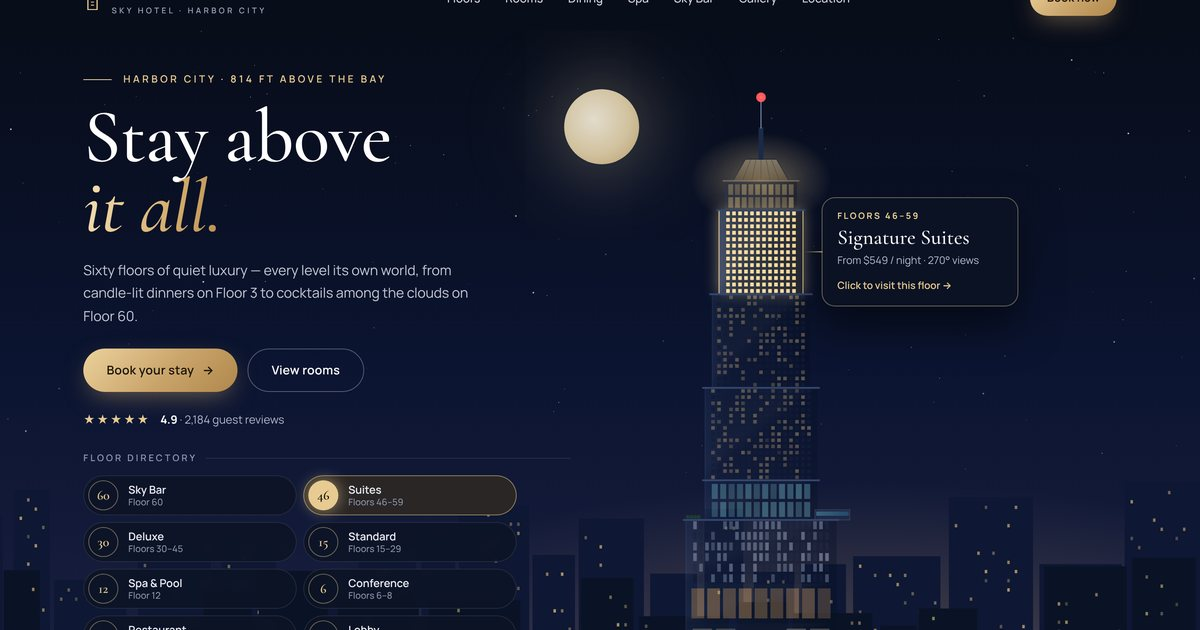
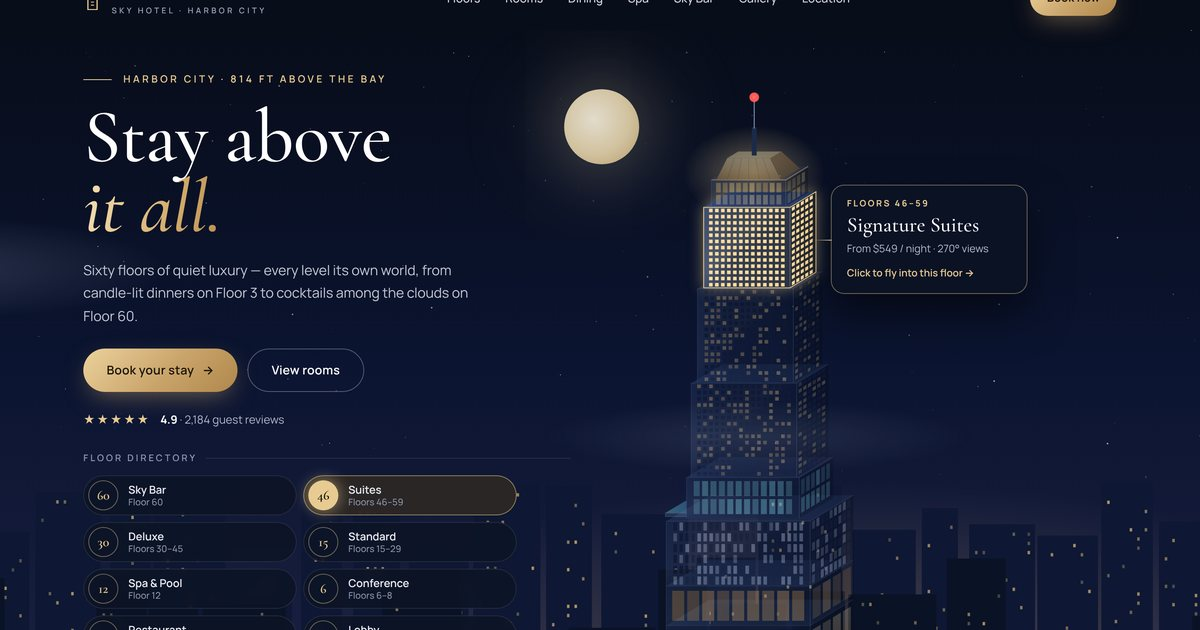
3D tower and fly-in animation to each floor
Claude-Session: https://claude.ai/code/session_01BrWmda2QawVL7UzhnecBsi

diff --git a/index.html b/index.html
@@ -113,6 +113,7 @@ ul{list-style:none}
 .tower-col{grid-area:tower;display:flex;align-items:flex-end;justify-content:flex-start;padding-left:6%;position:relative}
 .tower-wrap{position:relative;height:min(80vh,820px);aspect-ratio:420/1000;flex:none}
 .tower-wrap svg{width:100%;height:100%;overflow:visible;display:block}
+.pool{transition:filter .35s}.zone.active .pool{filter:brightness(1.35)}
 .tower-hint{position:absolute;top:13%;left:calc(100% - 20px);white-space:nowrap;display:flex;align-items:center;gap:10px;font-size:12px;color:#cbd1dc;background:rgba(255,255,255,.06);border:1px solid var(--line);padding:7px 14px 7px 10px;border-radius:999px;backdrop-filter:blur(6px);transition:opacity .4s}
 .tower-hint .dot{width:8px;height:8px;border-radius:50%;background:var(--gold2);box-shadow:0 0 0 0 rgba(231,203,146,.6);animation:pulse 2s infinite}
 @keyframes pulse{70%{box-shadow:0 0 0 10px rgba(231,203,146,0)}100%{box-shadow:0 0 0 0 rgba(231,203,146,0)}}
@@ -402,6 +403,24 @@ h2 em{font-style:italic;color:var(--goldd)}
 .mbar span{font-size:12px;color:#aab2c3;line-height:1.2}
 .mbar span b{display:block;color:#fff;font-size:16px;font-family:var(--serif)}
 
+/* clouds + fly-in portal */
+.cloud{position:absolute;pointer-events:none;border-radius:50%;background:radial-gradient(closest-side,rgba(190,203,232,.2),rgba(190,203,232,0));animation:drift linear infinite}
+.c1{width:680px;height:130px;top:28%;left:0;animation-duration:95s}
+.c2{width:520px;height:90px;top:56%;left:0;animation-duration:70s;animation-delay:-35s;z-index:2;opacity:.6}
+@keyframes drift{from{transform:translateX(-40vw)}to{transform:translateX(110vw)}}
+.portal{position:fixed;inset:0;z-index:85;visibility:hidden;overflow:hidden;cursor:pointer}
+.portal.on{visibility:visible}
+.p-bg{position:absolute;inset:0;opacity:0;background:radial-gradient(ellipse 70% 45% at 72% 100%,rgba(201,164,106,.3),transparent 70%),linear-gradient(180deg,#080d1a 0%,#0b1430 50%,#1a2042 100%)}
+.p-tower{position:absolute;inset:0}
+.portal .zone.active{filter:none}
+.p-photo{position:absolute;inset:-2%;background:center/cover no-repeat;opacity:0}
+.p-photo::after{content:'';position:absolute;inset:0;background:radial-gradient(ellipse at center,rgba(8,13,26,.38),rgba(8,13,26,.82))}
+.p-label{position:absolute;left:0;right:0;top:50%;margin-top:-110px;text-align:center;color:#fff;opacity:0}
+.p-label small{display:block;font-size:12px;letter-spacing:.45em;color:var(--gold2);font-weight:700}
+.pl-n{display:block;font-family:var(--serif);font-weight:500;font-size:clamp(120px,15vw,190px);line-height:.95;font-variant-numeric:tabular-nums;text-shadow:0 10px 40px rgba(0,0,0,.45)}
+.pl-name{font-family:var(--serif);font-style:italic;font-size:clamp(28px,3.4vw,44px);color:var(--gold2)}
+.p-skip{position:absolute;bottom:26px;left:0;right:0;text-align:center;font-size:12px;letter-spacing:.12em;color:rgba(255,255,255,.45)}
+
 /* responsive */
 @media (max-width:1100px){
   .links{display:none}.burger{display:block}
@@ -513,6 +532,7 @@ h2 em{font-style:italic;color:var(--goldd)}
 <section class="hero" id="top" data-nofloor>
   <div class="stars"></div>
   <div class="moon"></div>
+  <div class="cloud c1"></div>
   <svg class="city-bg" id="cityBg" preserveAspectRatio="xMidYMax slice" viewBox="0 0 1600 300" aria-hidden="true"></svg>
   <div class="hero-grid container">
     <div class="hero-text">
@@ -532,11 +552,12 @@ h2 em{font-style:italic;color:var(--goldd)}
     <div class="tower-col">
       <div class="tower-wrap">
         <svg id="tower" class="tower boot" viewBox="0 0 420 1000" role="group" aria-label="Interactive hotel tower. Choose a floor."></svg>
-        <div class="tower-hint"><span class="dot"></span><span class="h-desk">Hover a floor · click to visit</span><span class="h-touch">Tap a floor · tap again to visit</span></div>
+        <div class="tower-hint"><span class="dot"></span><span class="h-desk">Hover a floor · click to fly in</span><span class="h-touch">Tap a floor · tap again to fly in</span></div>
         <div class="tip" aria-hidden="true"><div class="t-floor"></div><div class="t-name"></div><div class="t-meta"></div><div class="t-cta"></div></div>
       </div>
     </div>
   </div>
+  <div class="cloud c2"></div>
 </section>
 
 <div class="stats" data-nofloor>
@@ -896,6 +917,7 @@ h2 em{font-style:italic;color:var(--goldd)}
 </footer>
 
 <button class="elev" aria-label="Back to the tower" title="Back to the tower"><span class="arrow">▲</span><span class="n">L</span><small>FLOOR</small><span class="lbl"></span></button>
+<div class="portal" aria-hidden="true"><div class="p-bg"></div><div class="p-tower"></div><div class="p-photo"></div><div class="p-label"><small>FLOOR</small><b class="pl-n">01</b><span class="pl-name"></span></div><div class="p-skip">Click to skip</div></div>
 <div class="mbar"><span>From<b>$189 / night</b></span><a href="#booking" class="btn btn-gold btn-sm">Book now</a></div>
 
 <div class="lightbox" role="dialog" aria-modal="true" aria-label="Photo viewer">
@@ -979,97 +1001,126 @@ FLOORS.forEach(f => {
   fgrid.appendChild(b);
 });
 
-/* tower */
+/* tower (3D) */
 const tower = $('#tower');
+const UX = .6, UY = -.36, CX = 172, DMAX = 120;
 const ZONES = [
-  {id: 'skybar', kind: 'crown'},
-  {id: 'suite', y0: 200, y1: 340, x0: 140, x1: 280, rows: 13},
-  {id: 'deluxe', y0: 340, y1: 496, x0: 128, x1: 292, rows: 15},
-  {id: 'standard', y0: 496, y1: 650, x0: 116, x1: 304, rows: 15},
-  {id: 'spa', kind: 'spa', y0: 650, y1: 716, x0: 116, x1: 304},
-  {id: 'conference', kind: 'office', y0: 716, y1: 822, x0: 84, x1: 336, rows: 6},
-  {id: 'restaurant', kind: 'resto', y0: 822, y1: 888, x0: 84, x1: 336},
-  {id: 'lobby', kind: 'lobby', y0: 888, y1: 960, x0: 84, x1: 336}
+  {id: 'lobby', kind: 'lobby', y0: 892, y1: 960, w: 240, d: 120},
+  {id: 'restaurant', kind: 'resto', y0: 826, y1: 892, w: 240, d: 120},
+  {id: 'conference', kind: 'office', y0: 718, y1: 826, w: 240, d: 120, rows: 6},
+  {id: 'spa', kind: 'spa', y0: 650, y1: 718, w: 188, d: 94},
+  {id: 'standard', y0: 494, y1: 650, w: 176, d: 88, rows: 15},
+  {id: 'deluxe', y0: 338, y1: 494, w: 160, d: 80, rows: 15},
+  {id: 'suite', y0: 204, y1: 338, w: 144, d: 72, rows: 13},
+  {id: 'skybar', kind: 'crown', y0: 160, y1: 204, w: 124, d: 62}
 ];
+const PHOTOS = {skybar: 'skyline', suite: 'room-suite', deluxe: 'room-deluxe', standard: 'room-standard', spa: 'pool', conference: 'conf', restaurant: 'restaurant', lobby: 'lobby'};
+const P = a => a.map(p => p[0].toFixed(1) + ',' + p[1].toFixed(1)).join(' ');
 const dl = y => Math.round((960 - y) * 1.5 + Math.random() * 450);
+const SP = {};
 (function build() {
   el('defs', {}, tower).innerHTML = `
-    <linearGradient id="glass" x1="0" x2="1"><stop offset="0" stop-color="#24375e"/><stop offset=".2" stop-color="#16243f"/><stop offset=".7" stop-color="#0f1a30"/><stop offset="1" stop-color="#0a1224"/></linearGradient>
-    <linearGradient id="crownG" x1="0" y1="0" x2="0" y2="1"><stop offset="0" stop-color="#fbe6b4"/><stop offset="1" stop-color="#c0914f" stop-opacity=".75"/></linearGradient>
-    <linearGradient id="water" x1="0" x2="1"><stop offset="0" stop-color="#6fdcf6"/><stop offset="1" stop-color="#2a8fc4"/></linearGradient>
-    <linearGradient id="sheen" x1="0" y1="0" x2="1" y2="1"><stop offset="0" stop-color="#fff" stop-opacity="0"/><stop offset=".42" stop-color="#fff" stop-opacity=".06"/><stop offset=".5" stop-color="#fff" stop-opacity="0"/></linearGradient>
+    <linearGradient id="glass" x1="0" x2="1"><stop offset="0" stop-color="#2a3e68"/><stop offset=".35" stop-color="#1a2948"/><stop offset="1" stop-color="#121e37"/></linearGradient>
+    <linearGradient id="sideG" x1="0" x2="1"><stop offset="0" stop-color="#0d1628"/><stop offset="1" stop-color="#080e1c"/></linearGradient>
+    <linearGradient id="topG" x1="0" y1="1" x2="1" y2="0"><stop offset="0" stop-color="#3a4f7e"/><stop offset="1" stop-color="#26365a"/></linearGradient>
+    <linearGradient id="crownG" x1="0" y1="0" x2="0" y2="1"><stop offset="0" stop-color="#fbe6b4"/><stop offset="1" stop-color="#c0914f"/></linearGradient>
+    <linearGradient id="crownS" x1="0" y1="0" x2="0" y2="1"><stop offset="0" stop-color="#b98d50"/><stop offset="1" stop-color="#6e5130"/></linearGradient>
+    <linearGradient id="water" x1="0" x2="1"><stop offset="0" stop-color="#7be3fa"/><stop offset="1" stop-color="#2b8fc6"/></linearGradient>
+    <linearGradient id="sheen" x1="0" y1="0" x2="1" y2="1"><stop offset="0" stop-color="#fff" stop-opacity="0"/><stop offset=".42" stop-color="#fff" stop-opacity=".07"/><stop offset=".5" stop-color="#fff" stop-opacity="0"/></linearGradient>
     <radialGradient id="glow" cx=".5" cy=".5" r=".5"><stop offset="0" stop-color="#e7cb92" stop-opacity=".5"/><stop offset="1" stop-color="#e7cb92" stop-opacity="0"/></radialGradient>
     <linearGradient id="lobbyLight" x1="0" y1="0" x2="0" y2="1"><stop offset="0" stop-color="#ffe6b0"/><stop offset="1" stop-color="#d89c55"/></linearGradient>`;
-  el('ellipse', {cx: 210, cy: 960, rx: 230, ry: 26, fill: 'url(#glow)', class: 'deco'}, tower);
-  el('ellipse', {cx: 210, cy: 150, rx: 120, ry: 80, fill: 'url(#glow)', class: 'halo deco'}, tower);
-  el('rect', {x: 206, y: 62, width: 8, height: 54, fill: '#1b2a48', class: 'deco'}, tower);
-  el('line', {x1: 210, y1: 12, x2: 210, y2: 64, stroke: '#7f92ba', 'stroke-width': 1.6, class: 'deco'}, tower);
-  el('circle', {cx: 210, cy: 12, r: 8, fill: '#ff5a5a', opacity: .25, class: 'beacon-g deco'}, tower);
-  el('circle', {cx: 210, cy: 12, r: 2.8, fill: '#ff6b6b', class: 'beacon deco'}, tower);
+  el('polygon', {points: P([[6, 974], [330, 974], [416, 922], [92, 922]]), fill: '#0a1224', class: 'deco'}, tower);
+  el('ellipse', {cx: 205, cy: 950, rx: 230, ry: 34, fill: 'url(#glow)', class: 'deco'}, tower);
+  const halo = el('ellipse', {cx: 200, cy: 140, rx: 120, ry: 80, fill: 'url(#glow)', class: 'halo deco'}, tower);
   const zg = el('g', {class: 'zones'}, tower);
 
   ZONES.forEach(z => {
-    const f = byId(z.id);
+    const f = byId(z.id), o = (DMAX - z.d) / 2, w = z.w, h = z.y1 - z.y0;
+    const xL = CX - w / 2 + o * UX, xR = xL + w, yT = z.y0 + o * UY, yB = z.y1 + o * UY, dx = z.d * UX, dy = z.d * UY;
     const g = el('g', {class: 'zone', 'data-id': z.id, tabindex: 0, role: 'button', 'aria-label': `${f.label} — ${f.name}`}, zg);
-    const wins = el('g', {}, g);
-    let shape;
-    const win = (x, y, w, h, cls, tw) => {
-      const r = el('rect', {x, y, width: w, height: h, class: cls}, wins);
+    const lit = (e, cls, y, tw, side) => {
       if (cls.includes(' l')) {
-        r.setAttribute('fill-opacity', rnd(.6, 1).toFixed(2));
+        e.setAttribute('fill-opacity', (side ? rnd(.35, .7) : rnd(.6, 1)).toFixed(2));
         let st = `--d:${dl(y)}ms`;
-        if (tw) { r.classList.add('tw'); st += `;--t:${rnd(10, 22).toFixed(1)}s;--td:${(-rnd(0, 20)).toFixed(1)}s`; }
-        r.setAttribute('style', st);
-      }
+        if (tw) { e.classList.add('tw'); st += `;--t:${rnd(10, 22).toFixed(1)}s;--td:${(-rnd(0, 20)).toFixed(1)}s`; }
+        e.setAttribute('style', st);
+      } else if (side) e.setAttribute('fill-opacity', '.75');
+      return e;
     };
-    if (z.kind === 'crown') {
-      const pts = '150,200 270,200 270,152 258,152 236,114 184,114 162,152 150,152';
-      g.insertBefore(el('polygon', {points: pts, fill: 'url(#glass)'}), wins);
-      el('polygon', {points: '164,151 256,151 236,116 184,116', fill: 'url(#crownG)', class: 'deco'}, g);
-      for (let i = 0; i <= 6; i++) { const t = i / 6; el('line', {x1: 164 + 92 * t, y1: 151, x2: 184 + 52 * t, y2: 116, stroke: 'rgba(20,28,50,.5)', 'stroke-width': 1, class: 'deco'}, g); }
-      for (let r = 0; r < 2; r++) for (let c = 0; c < 10; c++) win(155.5 + c * 11.2, 157 + r * 21.5, 8, 17.5, 'w l');
-      el('rect', {x: 146, y: 150, width: 128, height: 2.5, fill: '#e7cb92', opacity: .85, class: 'deco'}, g);
-      shape = ['polygon', {points: pts}];
+    const fw = (x, y, ww, hh, cls, tw) => lit(el('rect', {x, y, width: ww, height: hh, class: cls}, g), cls, y, tw);
+    const sw = (zA, zB, t, b, cls, tw) => lit(el('polygon', {points: P([[xR + zA * UX, t + zA * UY], [xR + zB * UX, t + zB * UY], [xR + zB * UX, b + zB * UY], [xR + zA * UX, b + zA * UY]]), class: cls}, g), cls, t, tw, true);
+    let poolPath = '';
+    if (z.kind === 'spa') {
+      const a = CX - w / 2 - 40, b = CX - w / 2 - 4, c = o + 8, e = c + 56;
+      const water = [[a + c * UX, 712 + c * UY], [b + c * UX, 712 + c * UY], [b + e * UX, 712 + e * UY], [a + e * UX, 712 + e * UY]];
+      el('polygon', {points: P(water), fill: 'url(#water)', class: 'pool'}, g);
+      el('rect', {x: a + c * UX, y: 712 + c * UY, width: b - a, height: 6, fill: 'rgba(150,220,250,.4)', stroke: 'rgba(190,235,255,.7)', 'stroke-width': .8}, g);
+      poolPath = 'M' + P([water[0], water[3], water[2], water[1], [b + c * UX, 718 + c * UY], [a + c * UX, 718 + c * UY]]).replace(/ /g, 'L') + 'Z';
+    }
+    el('polygon', {points: P([[xL, yT], [xR, yT], [xR + dx, yT + dy], [xL + dx, yT + dy]]), fill: 'url(#topG)'}, g);
+    el('polygon', {points: P([[xR, yT], [xR + dx, yT + dy], [xR + dx, yB + dy], [xR, yB]]), fill: 'url(#sideG)'}, g);
+    el('rect', {x: xL, y: yT, width: w, height: h, fill: 'url(#glass)', class: 'front'}, g);
+    el('rect', {x: xL, y: yT, width: w, height: h, fill: 'url(#sheen)', class: 'deco'}, g);
+    if (z.kind === 'lobby') {
+      const n = 6, gap = 7, pw = (w - 24 - gap * (n - 1)) / n, cx = (xL + xR) / 2;
+      for (let i = 0; i < n; i++) if (i !== 2 && i !== 3) fw(xL + 12 + i * (pw + gap), yT + 9, pw, h - 9, 'w l lobby');
+      for (let c = 0; c < 4; c++) sw(7 + c * 28, 29 + c * 28, yT + 9, yB, 'w l lobby');
+      el('rect', {x: cx - 40, y: yT + 22, width: 80, height: 4, fill: '#c9a46a', class: 'deco'}, g);
+      fw(cx - 22, yT + 28, 44, h - 28, 'w l door');
+      const t = el('text', {x: cx, y: yT + 17, 'text-anchor': 'middle', fill: '#e7cb92', 'font-size': 7.5, 'letter-spacing': 3, 'font-family': 'Cormorant,serif', 'font-weight': 600, class: 'deco'}, g);
+      t.textContent = 'ALTURA';
+    } else if (z.kind === 'resto') {
+      const n = 9, gap = 5, pw = (w - 20 - gap * (n - 1)) / n;
+      for (let i = 0; i < n; i++) fw(xL + 10 + i * (pw + gap), yT + 8, pw, h - 16, 'w l warm');
+      for (let c = 0; c < 4; c++) sw(7 + c * 28, 29 + c * 28, yT + 8, yB - 8, 'w l warm');
+    } else if (z.kind === 'spa') {
+      const cols = Math.floor((w - 14) / 14), sx = xL + (w - (cols * 14 - 4)) / 2, sc = Math.floor((z.d - 8) / 14), ss = (z.d - 10) / sc;
+      for (let r = 0; r < 2; r++) {
+        const t = yT + 6 + r * 30, b = t + 25;
+        for (let c = 0; c < cols; c++) fw(sx + c * 14, t, 10, 25, 'w l teal');
+        for (let c = 0; c < sc; c++) sw(5 + c * ss, 5 + c * ss + ss - 4, t, b, 'w l teal');
+      }
+    } else if (z.kind === 'crown') {
+      const cols = Math.floor((w - 10) / 11.2), sx = xL + (w - (cols * 11.2 - 3.2)) / 2;
+      for (let r = 0; r < 2; r++) {
+        const t = yT + 5 + r * 20;
+        for (let c = 0; c < cols; c++) fw(sx + c * 11.2, t, 8, 16, 'w l');
+        for (let c = 0; c < 4; c++) sw(5 + c * 13, 14 + c * 13, t, t + 16, 'w l');
+      }
     } else {
-      const w = z.x1 - z.x0, h = z.y1 - z.y0;
-      g.insertBefore(el('rect', {x: z.x0, y: z.y0, width: w, height: h, fill: 'url(#glass)'}), wins);
-      el('rect', {x: z.x0, y: z.y0, width: w, height: h, fill: 'url(#sheen)', class: 'deco'}, g);
-      el('rect', {x: z.x0, y: z.y0, width: 2, height: h, fill: 'rgba(255,255,255,.09)', class: 'deco'}, g);
-      shape = ['rect', {x: z.x0, y: z.y0, width: w, height: h}];
-      if (z.kind === 'lobby') {
-        const n = 6, gap = 7, pw = (w - 24 - gap * (n - 1)) / n;
-        for (let i = 0; i < n; i++) if (i !== 2 && i !== 3) win(z.x0 + 12 + i * (pw + gap), z.y0 + 9, pw, h - 9, 'w l lobby');
-        el('rect', {x: 170, y: z.y0 + 22, width: 80, height: 4, fill: '#c9a46a', class: 'deco'}, g);
-        win(188, z.y0 + 28, 44, h - 28, 'w l door');
-        const t = el('text', {x: 210, y: z.y0 + 17, 'text-anchor': 'middle', fill: '#e7cb92', 'font-size': 7.5, 'letter-spacing': 3, 'font-family': 'Cormorant,serif', 'font-weight': 600, class: 'deco'}, g);
-        t.textContent = 'ALTURA';
-      } else if (z.kind === 'resto') {
-        const n = 9, gap = 5, pw = (w - 20 - gap * (n - 1)) / n;
-        for (let i = 0; i < n; i++) win(z.x0 + 10 + i * (pw + gap), z.y0 + 8, pw, h - 16, 'w l warm');
-      } else if (z.kind === 'spa') {
-        const cols = Math.floor((w - 14) / 14), sx = z.x0 + (w - (cols * 14 - 4)) / 2;
-        for (let r = 0; r < 2; r++) for (let c = 0; c < cols; c++) win(sx + c * 14, z.y0 + 6 + r * 30, 10, 25, 'w l teal');
-        el('rect', {x: 300, y: 699, width: 58, height: 17, fill: 'rgba(140,210,240,.14)', stroke: 'rgba(170,225,250,.6)', 'stroke-width': 1, class: 'deco'}, g);
-        win(302, 702, 54, 7, 'w l teal');
-        el('rect', {x: 302, y: 702, width: 54, height: 7, fill: 'url(#water)', class: 'deco', opacity: .9}, g);
-        shape = ['path', {d: 'M116,650H304V699H358V716H116Z'}];
-      } else {
-        const cols = Math.floor((w - 14) / 10), sx = z.x0 + (w - (cols * 10 - 4)) / 2, rh = h / z.rows;
-        const office = z.kind === 'office';
-        for (let r = 0; r < z.rows; r++) for (let c = 0; c < cols; c++) {
-          const lit = Math.random() < (office ? .55 : .42);
-          win(sx + c * 10, z.y0 + r * rh + 2.2, 6, rh - 4.4, lit ? (office ? 'w l cool' : 'w l') : 'w', lit && !office && Math.random() < .12);
-        }
+      const office = z.kind === 'office', cols = Math.floor((w - 14) / 10), sx = xL + (w - (cols * 10 - 4)) / 2, rh = h / z.rows;
+      const sc = Math.max(3, Math.floor((z.d - 8) / 12)), ss = (z.d - 10) / sc;
+      for (let r = 0; r < z.rows; r++) {
+        const t = yT + r * rh + 2.2, b = yT + (r + 1) * rh - 2.2;
+        const pick = () => { const on = Math.random() < (office ? .55 : .42); return [on ? (office ? 'w l cool' : 'w l') : 'w', on && !office && Math.random() < .12]; };
+        for (let c = 0; c < cols; c++) { const [cl, tw] = pick(); fw(sx + c * 10, t, 6, b - t, cl, tw); }
+        for (let c = 0; c < sc; c++) { const [cl, tw] = pick(); sw(5 + c * ss, 5 + c * ss + ss - 4, t, b, cl, tw); }
       }
     }
-    el(shape[0], Object.assign({class: 'hl'}, shape[1]), g);
-    el(shape[0], Object.assign({class: 'hit'}, shape[1]), g);
+    el('polyline', {points: P([[xL, yB], [xL, yT], [xR, yT], [xR + dx, yT + dy]]), fill: 'none', stroke: 'rgba(170,195,245,.4)', 'stroke-width': 1, class: 'deco'}, g);
+    el('line', {x1: xR, y1: yT, x2: xR, y2: yB, stroke: 'rgba(160,190,245,.45)', 'stroke-width': 1.2, class: 'deco'}, g);
+    let outline = [[xL, yB], [xL, yT], [xR, yT], [xR + dx, yT + dy], [xR + dx, yB + dy], [xR, yB]];
+    if (z.kind === 'crown') {
+      const k = 36, a = 8, bi = 26;
+      el('polygon', {points: P([[xL + a, yT], [xR - a, yT], [xR - bi, yT - k], [xL + bi, yT - k]]), fill: 'url(#crownG)', class: 'deco crown-f'}, g);
+      el('polygon', {points: P([[xR - a, yT], [xR - a + dx * .85, yT + dy * .85], [xR - bi + dx * .5, yT - k + dy * .5], [xR - bi, yT - k]]), fill: 'url(#crownS)', class: 'deco'}, g);
+      el('polygon', {points: P([[xL + bi, yT - k], [xR - bi, yT - k], [xR - bi + dx * .5, yT - k + dy * .5], [xL + bi + dx * .5, yT - k + dy * .5]]), fill: '#f7e2b0', class: 'deco'}, g);
+      for (let i = 0; i <= 6; i++) { const t = i / 6; el('line', {x1: xL + a + (w - 2 * a) * t, y1: yT, x2: xL + bi + (w - 2 * bi) * t, y2: yT - k, stroke: 'rgba(40,30,20,.35)', 'stroke-width': .8, class: 'deco'}, g); }
+      el('polyline', {points: P([[xL, yT], [xR, yT], [xR + dx, yT + dy]]), fill: 'none', stroke: '#e7cb92', 'stroke-width': 2, class: 'deco'}, g);
+      SP.x = (xL + xR) / 2 + dx * .25; SP.y = yT - k + dy * .25;
+      outline = [[xL, yB], [xL, yT], [xL + a, yT], [xL + bi, yT - k], [xR - bi, yT - k], [xR - bi + dx * .5, yT - k + dy * .5], [xR + dx, yT + dy], [xR + dx, yB + dy], [xR, yB]];
+    }
+    const d = 'M' + P(outline).replace(/ /g, 'L') + 'Z' + poolPath;
+    el('path', {d, class: 'hl'}, g);
+    el('path', {d, class: 'hit'}, g);
   });
-  [[200, 136, 284], [340, 124, 296], [496, 112, 308], [650, 112, 308], [716, 80, 340]].forEach(([y, a, b]) => el('rect', {x: a, y: y - 1.5, width: b - a, height: 3, fill: '#34476f', class: 'ledge'}, tower));
-  for (let x = 88; x < 112; x += 6) el('circle', {cx: x, cy: 711, r: 3.4, fill: '#1d3a33', class: 'deco'}, tower);
-  el('rect', {x: 0, y: 960, width: 420, height: 40, fill: '#060a14', class: 'deco'}, tower);
-  el('rect', {x: 50, y: 960, width: 320, height: 1.5, fill: '#33466f', class: 'deco'}, tower);
+  halo.setAttribute('cx', SP.x); halo.setAttribute('cy', SP.y + 30);
+  el('rect', {x: SP.x - 4, y: SP.y - 46, width: 8, height: 47, fill: '#1b2a48', class: 'deco'}, tower);
+  el('line', {x1: SP.x, y1: SP.y - 96, x2: SP.x, y2: SP.y - 44, stroke: '#7f92ba', 'stroke-width': 1.6, class: 'deco'}, tower);
+  el('circle', {cx: SP.x, cy: SP.y - 96, r: 8, fill: '#ff5a5a', opacity: .25, class: 'beacon-g deco'}, tower);
+  el('circle', {cx: SP.x, cy: SP.y - 96, r: 2.8, fill: '#ff6b6b', class: 'beacon deco'}, tower);
   setTimeout(() => { tower.classList.remove('boot'); tower.classList.add('ready'); }, 2600);
+  setTimeout(() => Object.values(PHOTOS).forEach(p => { const i = new Image(); i.src = `images/${p}.webp`; }), 3500);
 })();
 
 /* interactions */
@@ -1078,7 +1129,7 @@ let active = null, demoT = null, touched = false;
 function positionTip(id) {
   const hl = tower.querySelector(`.zone[data-id="${id}"] .hl`);
   const zr = hl.getBoundingClientRect(), wr = wrap.getBoundingClientRect(), tw = tip.offsetWidth || 230;
-  let x = zr.right - wr.left + 22, y = zr.top + zr.height / 2 - wr.top;
+  let x = zr.right - wr.left + 18, y = zr.top + zr.height / 2 - wr.top;
   tip.classList.remove('left', 'over');
   if (wr.left + x + tw > innerWidth - 10) {
     x = zr.left - wr.left - 22 - tw; tip.classList.add('left');
@@ -1100,37 +1151,85 @@ function setActive(id) {
   $('.t-floor', tip).textContent = f.label;
   $('.t-name', tip).textContent = f.name;
   $('.t-meta', tip).textContent = f.meta;
-  $('.t-cta', tip).textContent = canHover ? 'Click to visit this floor →' : 'Tap again to visit →';
+  $('.t-cta', tip).textContent = canHover ? 'Click to fly into this floor →' : 'Tap again to fly in →';
   positionTip(id);
   tip.classList.add('show');
+}
+function arrive(t) {
+  const mark = t.classList.contains('room') ? t : ($('.floor-tag i', t) || t);
+  mark.classList.remove('arrive'); void mark.offsetWidth; mark.classList.add('arrive');
 }
 function go(id) {
   const t = $(byId(id).target); if (!t) return;
   window.scrollTo({top: t.getBoundingClientRect().top + scrollY - header.offsetHeight - 14, behavior: reduce ? 'auto' : 'smooth'});
-  const mark = t.classList.contains('room') ? t : ($('.floor-tag i', t) || t);
-  setTimeout(() => { mark.classList.remove('arrive'); void mark.offsetWidth; mark.classList.add('arrive'); }, 750);
+  setTimeout(() => arrive(t), 750); lockFloor(t);
 }
+
+/* fly into the building */
+const portal = $('.portal'), pBg = $('.p-bg', portal), pTower = $('.p-tower', portal), pPhoto = $('.p-photo', portal), pLabel = $('.p-label', portal), plN = $('.pl-n', portal);
+const wait = ms => new Promise(r => setTimeout(r, ms));
+const fmtN = n => n === 1 ? 'L' : String(n).padStart(2, '0');
+let flying = false, skipFly = () => {};
+portal.addEventListener('click', () => skipFly());
+async function flyTo(id) {
+  if (flying) return;
+  stopDemo();
+  if (reduce) { go(id); return; }
+  flying = true;
+  const f = byId(id), t = $(f.target);
+  setActive(id); tip.classList.remove('show');
+  const front = tower.querySelector(`.zone[data-id="${id}"] .front`);
+  const zr = front.getBoundingClientRect(), wr = tower.getBoundingClientRect();
+  const clone = tower.cloneNode(true);
+  clone.removeAttribute('id'); clone.classList.remove('boot'); clone.classList.add('ready');
+  Object.assign(clone.style, {position: 'absolute', left: wr.left + 'px', top: wr.top + 'px', width: wr.width + 'px', height: wr.height + 'px', transformOrigin: '0 0'});
+  pTower.replaceChildren(clone);
+  pPhoto.style.backgroundImage = `url(images/${PHOTOS[id]}.webp)`;
+  $('.pl-name', portal).textContent = f.name;
+  const target = f.num === 'L' ? 1 : +f.num;
+  let n = 1; plN.textContent = fmtN(1);
+  portal.classList.add('on');
+  const s = Math.min(34, Math.max(innerWidth / zr.width, innerHeight / zr.height) * 1.4);
+  const cx = zr.left + zr.width / 2, cy = zr.top + zr.height / 2;
+  const tx = innerWidth / 2 - wr.left - s * (cx - wr.left), ty = innerHeight / 2 - wr.top - s * (cy - wr.top);
+  const anims = [
+    pBg.animate([{opacity: 0}, {opacity: 1}], {duration: 260, fill: 'forwards'}),
+    clone.animate([{transform: 'none'}, {transform: `translate(${tx}px,${ty}px) scale(${s})`}], {duration: 1300, easing: 'cubic-bezier(.65,0,.2,1)', fill: 'forwards'}),
+    pLabel.animate([{opacity: 0, transform: 'translateY(26px)'}, {opacity: 1, transform: 'none'}], {duration: 550, delay: 180, easing: 'cubic-bezier(.2,.7,.2,1)', fill: 'forwards'}),
+    pPhoto.animate([{opacity: 0, transform: 'scale(1.4)', filter: 'blur(14px)'}, {opacity: 1, transform: 'scale(1.06)', filter: 'blur(0px)'}], {duration: 800, delay: 750, easing: 'cubic-bezier(.2,.7,.2,1)', fill: 'forwards'}),
+    clone.animate([{opacity: 1}, {opacity: 0}], {duration: 380, delay: 1150, fill: 'forwards'})
+  ];
+  const ct = target > 1 ? setInterval(() => { n = Math.min(target, n + 1); plN.textContent = fmtN(n); if (n === target) clearInterval(ct); }, 1150 / (target - 1)) : null;
+  await Promise.race([wait(1950), new Promise(r => skipFly = r)]);
+  clearInterval(ct); plN.textContent = fmtN(target);
+  window.scrollTo({top: t.getBoundingClientRect().top + scrollY - header.offsetHeight - 14, behavior: 'instant'});
+  setActive(null); lockFloor(t);
+  const out = portal.animate([{opacity: 1}, {opacity: 0}], {duration: 600, easing: 'ease', fill: 'forwards'});
+  setTimeout(() => arrive(t), 300);
+  await out.finished;
+  portal.classList.remove('on');
+  anims.forEach(a => a.cancel()); out.cancel();
+  pTower.replaceChildren(); flying = false; skipFly = () => {};
+}
+
 function stopDemo() { if (!touched && active) setActive(null); touched = true; clearTimeout(demoT); hint.style.opacity = 0; }
 $$('.zone', tower).forEach(z => {
   const id = z.dataset.id;
   if (canHover) {
     z.addEventListener('mouseenter', () => { stopDemo(); setActive(id); });
-    z.addEventListener('click', () => go(id));
+    z.addEventListener('click', () => flyTo(id));
   } else {
-    z.addEventListener('click', () => {
-      stopDemo();
-      if (active === id) { go(id); setTimeout(() => setActive(null), 500); } else setActive(id);
-    });
+    z.addEventListener('click', () => { stopDemo(); if (active === id) flyTo(id); else setActive(id); });
   }
-  z.addEventListener('keydown', e => { if (e.key === 'Enter' || e.key === ' ') { e.preventDefault(); go(id); } });
+  z.addEventListener('keydown', e => { if (e.key === 'Enter' || e.key === ' ') { e.preventDefault(); flyTo(id); } });
   z.addEventListener('focus', () => { if (z.matches(':focus-visible')) { stopDemo(); setActive(id); } });
 });
-tower.addEventListener('mouseleave', () => { if (canHover) setActive(null); });
-document.addEventListener('click', e => { if (!canHover && active && !e.target.closest('.zone') && !e.target.closest('.fbtn')) setActive(null); });
+tower.addEventListener('mouseleave', () => { if (canHover && !flying) setActive(null); });
+document.addEventListener('click', e => { if (!canHover && active && !flying && !e.target.closest('.zone') && !e.target.closest('.fbtn')) setActive(null); });
 $$('.fbtn').forEach(b => {
   b.addEventListener('mouseenter', () => { if (canHover) { stopDemo(); setActive(b.dataset.id); } });
-  b.addEventListener('mouseleave', () => { if (canHover) setActive(null); });
-  b.addEventListener('click', () => { stopDemo(); setActive(b.dataset.id); go(b.dataset.id); if (!canHover) setTimeout(() => setActive(null), 600); });
+  b.addEventListener('mouseleave', () => { if (canHover && !flying) setActive(null); });
+  b.addEventListener('click', () => flyTo(b.dataset.id));
 });
 addEventListener('resize', () => active && positionTip(active));
 if (!reduce) {
@@ -1138,7 +1237,7 @@ if (!reduce) {
   const run = () => { if (touched) return; if (k < seq.length) { setActive(seq[k++]); demoT = setTimeout(run, 1500); } else setActive(null); };
   demoT = setTimeout(run, 2800);
 }
-window.__tower = {setActive, stopDemo};
+window.__tower = {setActive, stopDemo, flyTo};
 
 /* elevator indicator */
 const elev = $('.elev'), en = $('.n', elev), ea = $('.arrow', elev), elbl = $('.lbl', elev);
@@ -1153,9 +1252,12 @@ function showFloor(n, name) {
   const dt = Math.max(16, Math.min(80, 800 / Math.abs(n - cur)));
   animT = setInterval(() => { cur += dir; en.textContent = fmt(cur); if (cur === n) { clearInterval(animT); setTimeout(() => elev.classList.remove('moving'), 500); } }, dt);
 }
+let lockUntil = 0;
+function lockFloor(t) { if (t.dataset.floor) { showFloor(+t.dataset.floor, t.dataset.fname); lockUntil = Date.now() + 1600; } }
 const fio = new IntersectionObserver(es => es.forEach(e => {
-  if (!e.isIntersecting) return;
+  if (!e.isIntersecting || Date.now() < lockUntil) return;
   const t = e.target;
+  if (t.classList.contains('room') && e.boundingClientRect.left > innerWidth * .4) return;
   if (t.dataset.floor) showFloor(+t.dataset.floor, t.dataset.fname); else elev.classList.remove('show');
 }), {rootMargin: '-45% 0px -54% 0px'});
 $$('[data-floor],[data-nofloor]').forEach(s => fio.observe(s));
